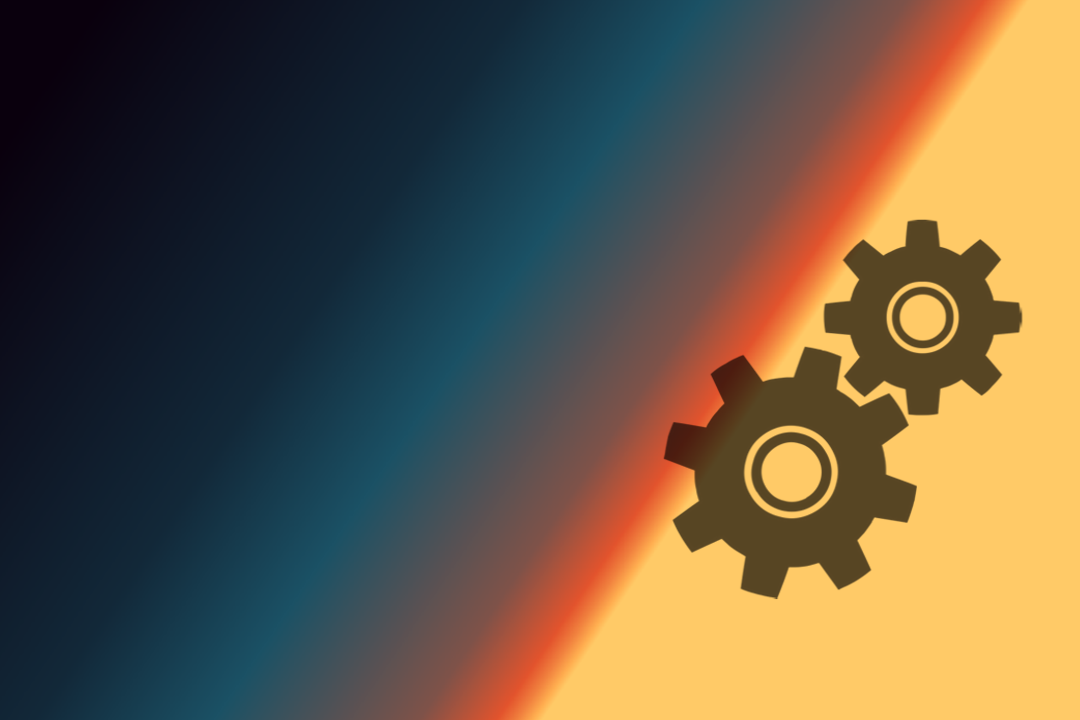
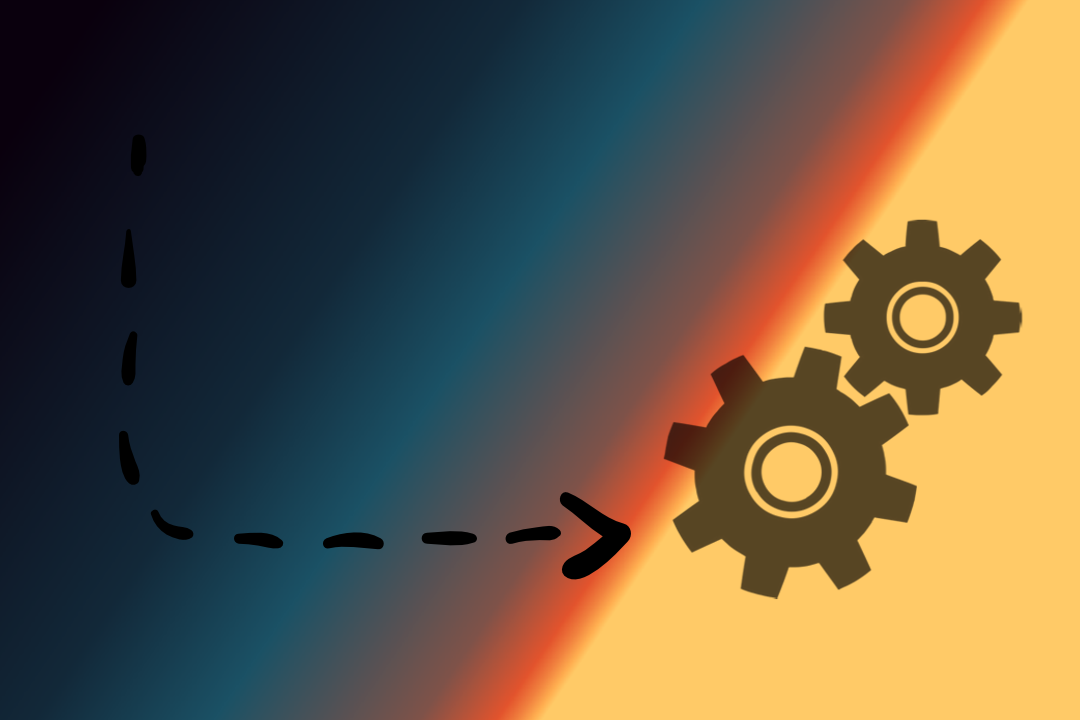
rel.1.3

diff --git a/Portfolio.html b/Portfolio.html
@@ -74,9 +74,7 @@
     </div>
     </div>
 
-    <div class="container-2"> 
-            <img class="backimg" src="images/arrow.png"></div>
-
+  
 </body>
 <footer class="container-4">
 <div class="row">

diff --git a/index.html b/index.html
@@ -59,8 +59,7 @@
     </div>
     </div>
     
-    <div class="container-2"> 
-            <img class="backimg" src="images/arrow.png"></div>
+
 
 
       
